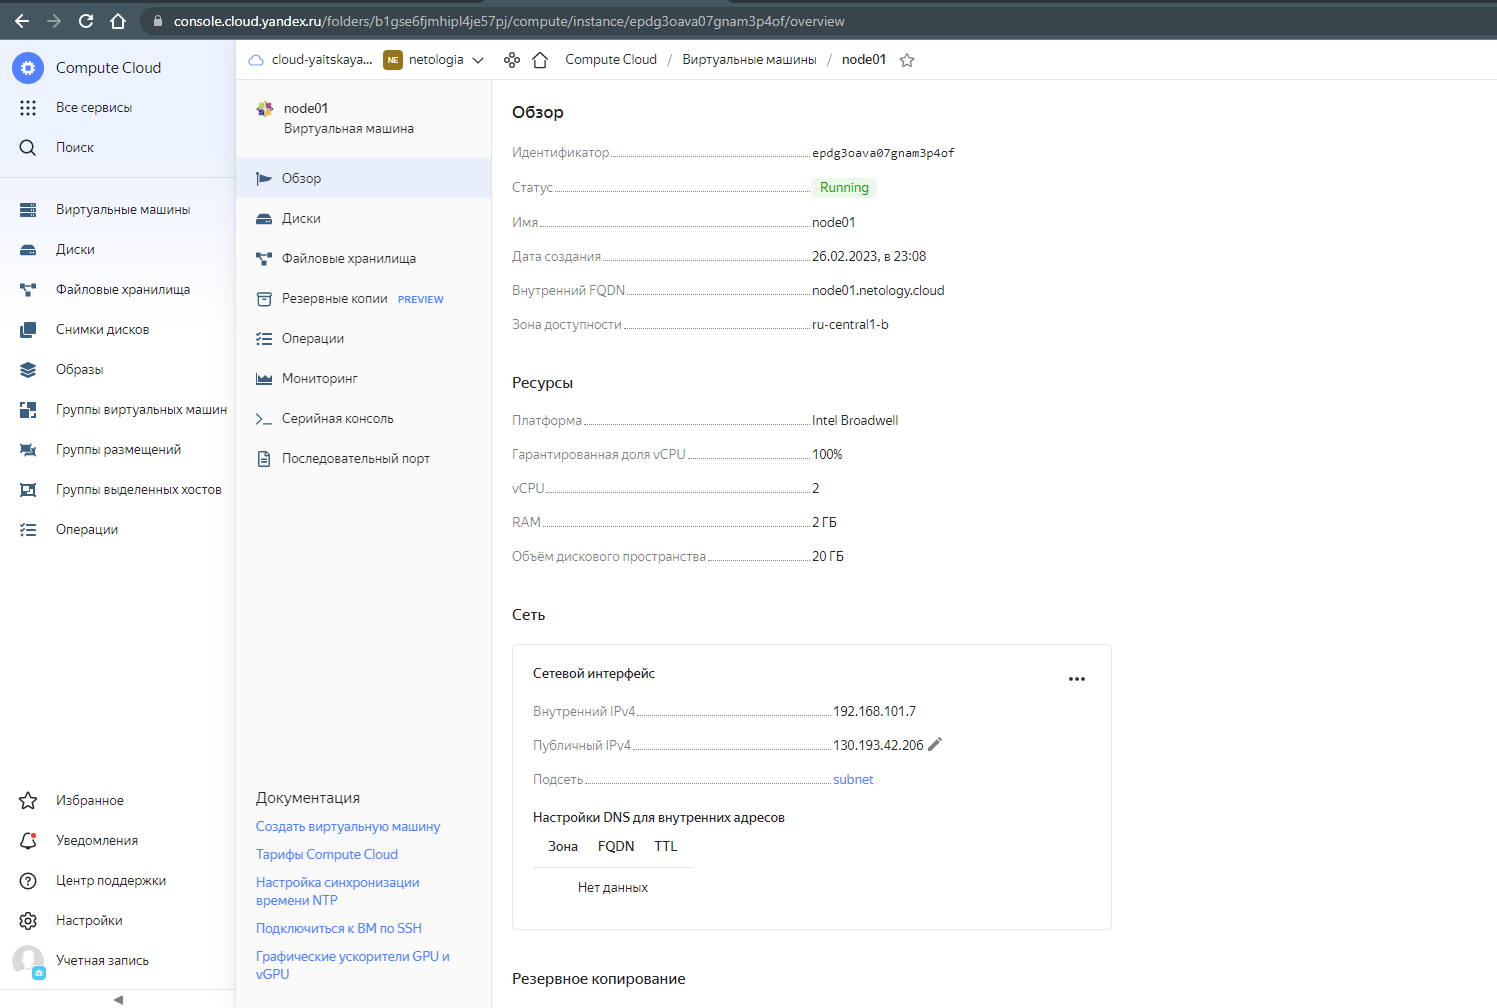
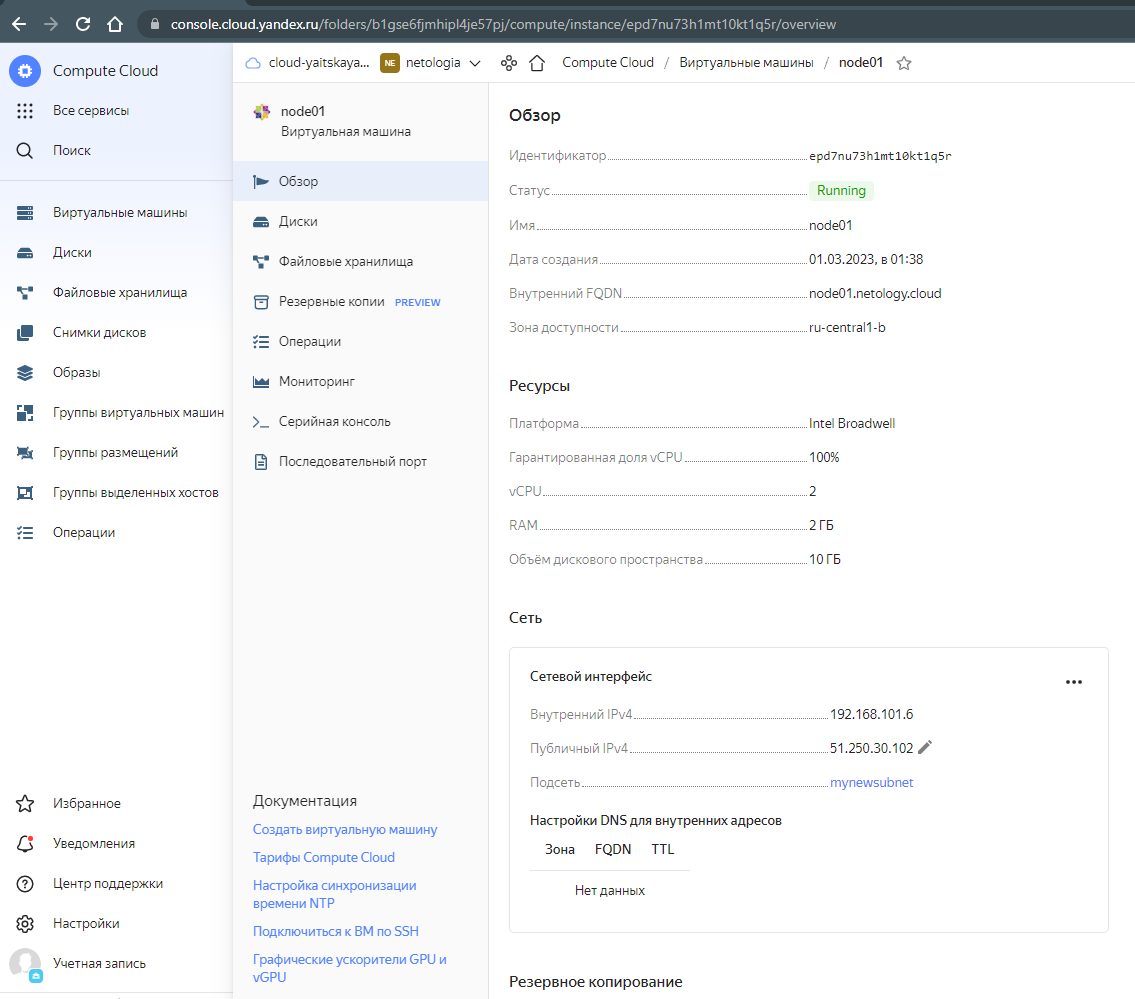
full changes

diff --git a/05-virt-04-docker-compose-answers/src/terraform/.terraform/providers/registry.terraform.io/yandex-cloud/yandex/0.85.0/windows_386/README.md b/05-virt-04-docker-compose-answers/src/terraform/.terraform/providers/registry.terraform.io/yandex-cloud/yandex/0.85.0/windows_386/README.md
@@ -1,0 +1,71 @@
+Terraform Provider
+==================
+
+- Documentation: https://registry.terraform.io/providers/yandex-cloud/yandex/latest/docs
+
+Requirements
+------------
+
+- [Terraform](https://www.terraform.io/downloads.html) 0.12+
+- [Go](https://golang.org/doc/install) 1.16 (to build the provider plugin)
+
+Building The Provider
+---------------------
+
+Clone repository to: `$GOPATH/src/github.com/yandex-cloud/terraform-provider-yandex`
+
+```sh
+$ mkdir -p $GOPATH/src/github.com/yandex-cloud; cd $GOPATH/src/github.com/yandex-cloud
+$ git clone git@github.com:yandex-cloud/terraform-provider-yandex
+```
+
+Enter the provider directory and build the provider
+
+```sh
+$ cd $GOPATH/src/github.com/yandex-cloud/terraform-provider-yandex
+$ make build
+```
+
+Using the provider
+----------------------
+If you're building the provider, follow the instructions to [install it as a plugin.](https://www.terraform.io/docs/plugins/basics.html#installing-plugins) After placing it into your plugins directory,  run `terraform init` to initialize it. Documentation about the provider specific configuration options can be found on the [provider's website](https://registry.terraform.io/providers/yandex-cloud/yandex/latest/docs).
+An example of using an installed provider from local directory: 
+
+Write following config into  `~/.terraformrc`
+```
+provider_installation {
+   dev_overrides {
+    "yandex-cloud/yandex" = "/path/to/local/provider"
+  }
+
+   direct {}
+ }
+```
+
+Developing the Provider
+---------------------------
+
+If you wish to work on the provider, you'll first need [Go](http://www.golang.org) installed on your machine (version 1.11+ is *required*). You'll also need to correctly setup a [GOPATH](http://golang.org/doc/code.html#GOPATH), as well as adding `$GOPATH/bin` to your `$PATH`.
+
+To compile the provider, run `make build`. This will build the provider and put the provider binary in the `$GOPATH/bin` directory.
+
+```sh
+$ make build
+...
+$ $GOPATH/bin/terraform-provider-yandex
+...
+```
+
+In order to test the provider, you can simply run `make test`.
+
+```sh
+$ make test
+```
+
+In order to run the full suite of [Acceptance tests](https://www.terraform.io/docs/extend/testing/acceptance-tests/index.html), run `make testacc`.
+
+*Note:* Acceptance tests create real resources, and often cost money to run.
+
+```sh
+$ make testacc
+```

diff --git a/05-virt-04-docker-compose-answers/README.md b/05-virt-04-docker-compose-answers/README.md
@@ -28,6 +28,9 @@
 
 Для получения зачета вам необходимо предоставить скриншот страницы с созданным образом из личного кабинета YandexCloud.
 
+### Ответ
+![Alt text](task1.png?raw=true "Title")
+
 ## Задача 2
 
 Создать вашу первую виртуальную машину в YandexCloud.
@@ -46,6 +49,11 @@
 <p align="center">
   <img width="1200" height="600" src="./assets/yc_02.png">
 </p>
+
+
+### Ответ
+![Alt text](task3.png?raw=true "Title")
+
 
 ## Задача 4 (*)
 
